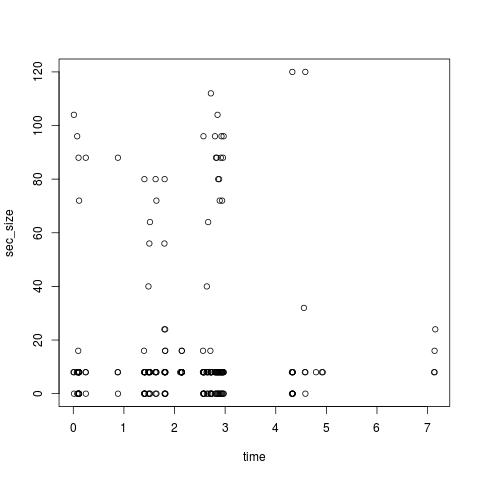
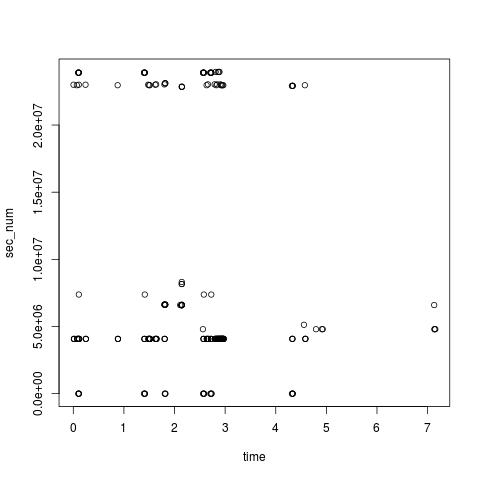
Y-axis option

diff --git a/test2.py b/test2.py
@@ -11,7 +11,8 @@ Usage : python %s [-g graph_type] [-rw Read or Write] [-t time] [-y y-axis] [-l 
 * graph_type : f(Cumulative Bar Plot-file_type)/ b(Cumulative Bar Plot-block_type)/ t(time_plot+simple bar plot)/ all
 * Read or Write : r(read)/ w(write)/ rw(both read and write) 1. time_plot(graph) only 2. rw is default
 * time : sec(start):sec(end) # default - whole of the <result.po> data
-* y-axis : s(sector size)/ n(sector number)/ all(default) # time_plot(graph) only(need f/b graph)
+* y-axis - t(time plot) : s(sector size)/ n(sector number)/ all(default) 
+	 - b(block type)/f(file type) : s(I/O Size)/ c(I/O Count)/ all(default)
 * legend : f(file_type)/ b(block_type) # time_plot(graph) only, not implemented.
 * output # 1. name and location of the graph 2. file extension together
 """ % (sys.argv[0]))
@@ -93,37 +94,34 @@ if sys.argv.count('-g') == 1:
 	ind = sys.argv.index('-g') + 1
 	if sys.argv[ind] == 'f':
 		exe = 'python test3.py'
-		#subprocess.call('python test4.py', shell = True)
+		# set the Y-axis Option
+		if sys.argv.count('-y') == 1:
+                        ind2 = sys.argv.index('-y') + 1
+                        if sys.argv[ind2] == 's' or sys.argv[ind2] == 'c' or sys.argv[ind2] == 'all':
+                                exe = exe + ' -y ' + sys.argv[ind2]
+                        else:
+                                print('Error!! : Invalid argvs(-y)....')
+				sys.exit()
 	elif sys.argv[ind] == 'b':
 		exe = 'python test.py'
-		#subprocess.call('python test.py', shell = True)
-	elif sys.argv[ind] == 't':
+		# set the Y-axis Option
 		if sys.argv.count('-y') == 1:
 			ind2 = sys.argv.index('-y') + 1
-			if sys.argv[ind2] == 's' or sys.argv[ind2] == 'n' or sys.argv[ind2] == 'all':
-				exe = 'Rscript rscript2.r -y '+ sys.argv[ind2]
-			else:
-				print('Error!! : Invalid argvs(-y)....')
-                                sys.exit()
-			#exe = 'Rscript '
-			"""
-			if sys.argv[ind2] == 's':
-				exe = exe + 'rscript2-size.r'
-				#subprocess.call('R CMD BATCH rscript2-size.r', shell = True)
-			elif sys.argv[ind2] == 'n':
-				exe = exe + ' -y n'
-				#exe = exe + 'rscript2-num.r'
-				#subprocess.call('R CMD BATCH rscript2-num.r', shell = True)
-			elif sys.argv[ind2] == 'all':
-				exe = exe + 'rscript2-all.r'
-				#subprocess.call('R CMD BATCH rscript2-all.r', shell = True)
+			if sys.argv[ind2] == 's' or sys.argv[ind2] == 'c' or sys.argv[ind2] == 'all':
+				exe = exe + ' -y ' + sys.argv[ind2]
 			else:
 				print('Error!! : Invalid argvs(-y)....')
 				sys.exit()
-			"""
-		else:
-			exe = 'Rscript rscript2.r'
-			#subprocess.call('R CMD BATCH rscript2-all.r', shell = True)
+	elif sys.argv[ind] == 't':
+		exe = 'Rscript rscript2.r'
+		# set the Y-axis Option
+		if sys.argv.count('-y') == 1:
+			ind2 = sys.argv.index('-y') + 1
+			if sys.argv[ind2] == 's' or sys.argv[ind2] == 'n' or sys.argv[ind2] == 'all':
+				exe = exe +' -y '+ sys.argv[ind2]
+			else:
+				print('Error!! : Invalid argvs(-y)....')
+                                sys.exit()
 	elif sys.argv[ind] == 'all':
 		exe1 = 'python test.py' # 'b(block)
 		exe2 = 'Rscript rscript2.r' # t(time)
@@ -151,7 +149,7 @@ if sys.argv.count('-o') == 1:
 		out = sys.argv[ind].split('.')
                 exe = exe +' -o '+ sys.argv[ind] +' ' + out[1] # out[1] : file_extension
 	
-subprocess.call('rm -rf save/*', shell = True)
+subprocess.call('rm -rf save/*', shell = True) # Delete the Previous Graph File.
 #print(exe)
 if flag2 == False: # b, f, t
 	subprocess.call(exe, shell = True)

diff --git a/test.py b/test.py
@@ -148,13 +148,22 @@ for i in lst2:
         f3.write(action.keys()[action.values().index(order)]+'\t'+str(i[0])+'\t'+str(i[1])+'\t'+str(i[2])+'\n')
         order += 1
 """
+
 exe = 'Rscript rscript.r'
-# Output file option
+# set the Output file option
 if sys.argv.count('-o') == 1:
         ind = sys.argv.index('-o') + 1
         out = sys.argv[ind].split('.')
         exe = exe +' -o '+ sys.argv[ind] +' ' + out[1] # out[1] : file_extension
 
+# set the Y-axis Option
+if sys.argv.count('-y') == 1:
+	ind2 = sys.argv.index('-y') + 1
+	if sys.argv[ind2] == 's' or sys.argv[ind2] == 'c' or sys.argv[ind2] == 'all':
+		exe = exe + ' -y ' + sys.argv[ind2]
+	else:
+		print('Error!! : Invalid argvs(-y)....')
+		sys.exit()
 # File Close
 f.close()
 f2.close()

diff --git a/test3.py b/test3.py
@@ -158,13 +158,21 @@ print(file_num)
 """
 
 exe = 'Rscript rscript3.r'
-# Output file option
+# set the Output file option
 if sys.argv.count('-o') == 1:
         ind = sys.argv.index('-o') + 1
         out = sys.argv[ind].split('.')
         exe = exe +' -o '+ sys.argv[ind] +' ' + out[1] # out[1] : file_extension
 
 
+# set the Y-axis Option
+if sys.argv.count('-y') == 1:
+        ind2 = sys.argv.index('-y') + 1
+        if sys.argv[ind2] == 's' or sys.argv[ind2] == 'c' or sys.argv[ind2] == 'all':
+                exe = exe + ' -y ' + sys.argv[ind2]
+        else:
+                print('Error!! : Invalid argvs(-y)....')
+                sys.exit()
 # File Close
 f.close()
 f2.close()
